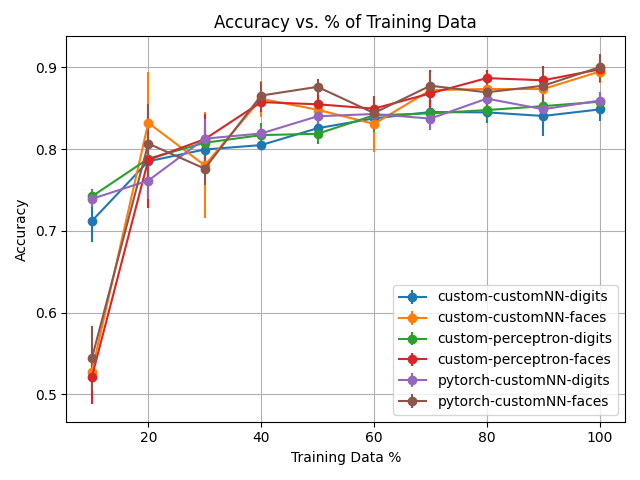
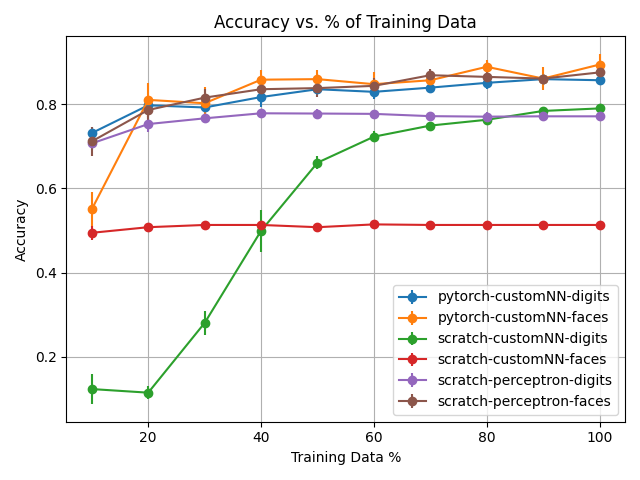
Fixes to evaluate.py so that perceptron and customnn actually are used instead of pytorch. Edits on the epochs to not expend too much time.

diff --git a/classifiers.py b/classifiers.py
@@ -1,5 +1,6 @@
 import numpy as np
 
+
 class Perceptron:
     def __init__(self, input_size, num_classes):
         self.weights = np.random.randn(input_size, num_classes) * 0.01
@@ -7,12 +8,12 @@ class Perceptron:
 
     def forward(self, x):
         return np.dot(x, self.weights) + self.bias
-    
-    def train(self, X, y, lr = 0.01, epochs = 100):
+
+    def train(self, X, y, lr=0.01, epochs=50):
         for epoch in range(epochs):
             for i in range(X.shape[0]):
                 # Forward
-                scores = self.forward(X[i:i+1])
+                scores = self.forward(X[i:i + 1])
 
                 pred = np.argmax(scores)
 
@@ -21,12 +22,12 @@ class Perceptron:
                     self.weights[:, pred] -= lr * X[i]
                     self.bias[0, y[i]] += lr
                     self.bias[0, pred] -= lr
-    
+
     def predict(self, X):
         scores = self.forward(X)
 
         return np.argmax(scores, axis=1)
-    
+
     def evaluate(self, X, y):
         preds = self.predict(X)
         return np.mean(preds == y)
@@ -36,14 +37,14 @@ class CustomNN:
     def __init__(self, input_size, hidden_size1, hidden_size2, output_size):
 
         self.W1 = np.random.randn(input_size, hidden_size1) * 0.01
-        self.b1 = np.zeros((1,hidden_size1))
+        self.b1 = np.zeros((1, hidden_size1))
 
         self.W2 = np.random.randn(hidden_size1, hidden_size2) * 0.01
-        self.b2 = np.zeros((1,hidden_size2))
+        self.b2 = np.zeros((1, hidden_size2))
 
         self.W3 = np.random.randn(hidden_size2, output_size) * 0.01
-        self.b3 = np.zeros((1,output_size))
-    
+        self.b3 = np.zeros((1, output_size))
+
     def relu(self, x):
         return np.maximum(0, x)
 
@@ -53,7 +54,7 @@ class CustomNN:
     def softmax(self, x):
         exp_x = np.exp(x - np.max(x, axis=1, keepdims=True))
         return exp_x / np.sum(exp_x, axis=1, keepdims=True)
-    
+
     def forward(self, x):
         self.z1 = np.dot(x, self.W1) + self.b1
         self.a1 = self.relu(self.z1)
@@ -65,7 +66,7 @@ class CustomNN:
         self.a3 = self.softmax(self.z3)
 
         return self.a3
-    
+
     def backward(self, x, y, lr):
         m = x.shape[0]
 
@@ -75,11 +76,11 @@ class CustomNN:
 
         dW3 = np.dot(self.a2.T, dz3)
         db3 = np.sum(dz3, axis=0, keepdims=True)
-        
+
         dz2 = np.dot(dz3, self.W3.T) * self.relu_derivative(self.z2)
         dW2 = np.dot(self.a1.T, dz2)
         db2 = np.sum(dz2, axis=0, keepdims=True)
-        
+
         dz1 = np.dot(dz2, self.W2.T) * self.relu_derivative(self.z1)
         dW1 = np.dot(x.T, dz1)
         db1 = np.sum(dz1, axis=0, keepdims=True)
@@ -90,26 +91,26 @@ class CustomNN:
         self.b2 -= lr * db2
         self.W1 -= lr * dW1
         self.b1 -= lr * db1
-    
-    def train(self, X, y, lr = 0.01, epochs = 100, batch_size = 32):
+
+    def train(self, X, y, lr=0.01, epochs=50, batch_size=32):
         for epoch in range(epochs):
 
             idx = np.arange(X.shape[0])
             np.random.shuffle(idx)
 
             for i in range(0, X.shape[0], batch_size):
-                batch_idx = idx[i:i+batch_size]
+                batch_idx = idx[i:i + batch_size]
                 X_batch = X[batch_idx]
                 y_batch = y[batch_idx]
 
                 self.forward(X_batch)
 
                 self.backward(X_batch, y_batch, lr)
-    
+
     def predict(self, X):
         scores = self.forward(X)
         return np.argmax(scores, axis=1)
-    
+
     def evaluate(self, X, y):
         preds = self.predict(X)
         return np.mean(preds == y)

diff --git a/evaluate.py b/evaluate.py
@@ -5,9 +5,18 @@ import torch
 from main import load_face_data, load_digit_data
 from classifiers import Perceptron, CustomNN
 from pytorch_nn import TorchNN, TrainerConfig, train_and_evaluate
+import logging
+
+logger = logging.getLogger(__name__)
+if not logger.handlers:
+    handler = logging.StreamHandler()
+    fmt = "[%(asctime)s] %(levelname)s:%(name)s: %(message)s"
+    handler.setFormatter(logging.Formatter(fmt))
+    logger.addHandler(handler)
+logger.setLevel(logging.INFO)
 
 frameworks = {
-    'custom': ['perceptron', 'customNN'],
+    'scratch': ['perceptron', 'customNN'],
     'pytorch': ['customNN']
 }
 datasets = ['digits', 'faces']
@@ -60,16 +69,24 @@ with open('results.csv', 'w', newline='') as csvfile:
                         if fw == 'scratch':
                             if model == 'perceptron':
                                 clf = Perceptron(input_size=Xs.shape[1], num_classes=num_classes)
+                                perceptron_start = time.time()
                                 clf.train(Xs, ys)
+                                duration = time.time() - perceptron_start
                                 acc = clf.evaluate(X_test, y_test)
-                            else:
+                                logger.info(f"[scratch/perceptron] pct={pct:>3}%  trial={t}  "
+                                            f"acc={acc:.4f}  time={duration:.2f}s")
+                            elif model == 'customNN':
                                 # custom nn
                                 clf = CustomNN(input_size=Xs.shape[1],
                                                hidden_size1=256,
                                                hidden_size2=128,
                                                output_size=num_classes)
+                                custom_nn_start = time.time()
                                 clf.train(Xs, ys)
+                                duration = time.time() - custom_nn_start
                                 acc = clf.evaluate(X_test, y_test)
+                                logger.info(f"[scratch/customNN]   pct={pct:>3}%  trial={t}  acc={acc:.4f}  "
+                                            f"time={duration:.2f}s")
                         else:
                             # pytorch
                             Xtr = torch.tensor(Xs, dtype=torch.float32)
@@ -91,4 +108,4 @@ with open('results.csv', 'w', newline='') as csvfile:
                         np.mean(accs), np.std(accs),
                         np.mean(times), np.std(times)
                     ])
-print("Eval complte. Saved to results.csv")
+print("Evaluation complete. Saved to results.csv")
